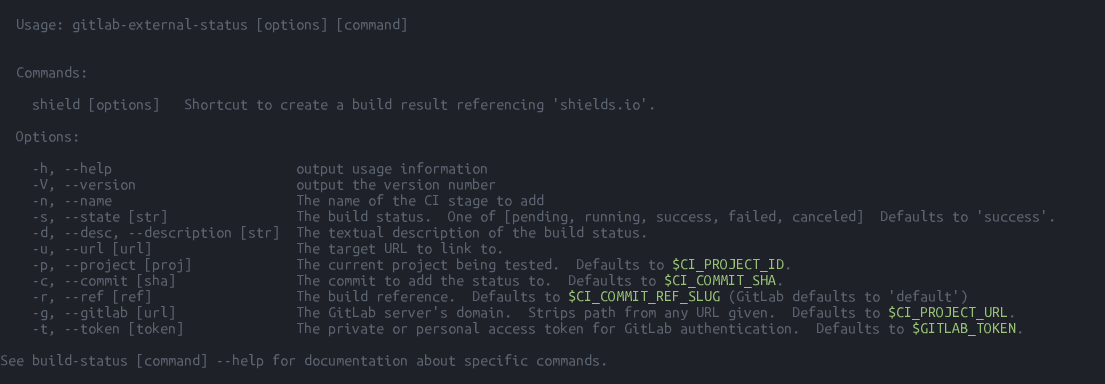
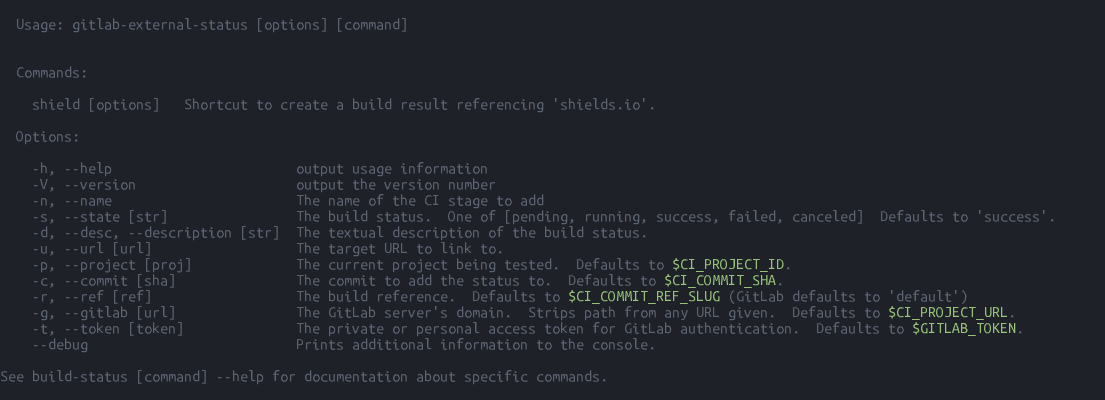
Built from commit e9b90f2a4be4198b4ae0fb4f6b108a895cced673

diff --git a/coverage/ExternalStatus.js.html b/coverage/ExternalStatus.js.html
@@ -20,14 +20,14 @@
     </h1>
     <div class='clearfix'>
       <div class='fl pad1y space-right2'>
-        <span class="strong">92.86% </span>
+        <span class="strong">90% </span>
         <span class="quiet">Statements</span>
-        <span class='fraction'>26/28</span>
+        <span class='fraction'>27/30</span>
       </div>
       <div class='fl pad1y space-right2'>
-        <span class="strong">85.71% </span>
+        <span class="strong">81.25% </span>
         <span class="quiet">Branches</span>
-        <span class='fraction'>12/14</span>
+        <span class='fraction'>13/16</span>
       </div>
       <div class='fl pad1y space-right2'>
         <span class="strong">100% </span>
@@ -35,9 +35,9 @@
         <span class='fraction'>6/6</span>
       </div>
       <div class='fl pad1y space-right2'>
-        <span class="strong">92.86% </span>
+        <span class="strong">90% </span>
         <span class="quiet">Lines</span>
-        <span class='fraction'>26/28</span>
+        <span class='fraction'>27/30</span>
       </div>
     </div>
   </div>
@@ -200,9 +200,14 @@
 155
 156
 157
-158</td><td class="line-coverage quiet"><span class="cline-any cline-yes">8x</span>
+158
+159
+160
+161
+162</td><td class="line-coverage quiet"><span class="cline-any cline-yes">8x</span>
 <span class="cline-any cline-yes">8x</span>
 <span class="cline-any cline-yes">8x</span>
+<span class="cline-any cline-neutral">&nbsp;</span>
 <span class="cline-any cline-neutral">&nbsp;</span>
 <span class="cline-any cline-neutral">&nbsp;</span>
 <span class="cline-any cline-neutral">&nbsp;</span>
@@ -339,6 +344,9 @@
 <span class="cline-any cline-yes">10x</span>
 <span class="cline-any cline-yes">10x</span>
 <span class="cline-any cline-yes">10x</span>
+<span class="cline-any cline-no">&nbsp;</span>
+<span class="cline-any cline-neutral">&nbsp;</span>
+<span class="cline-any cline-yes">10x</span>
 <span class="cline-any cline-neutral">&nbsp;</span>
 <span class="cline-any cline-neutral">&nbsp;</span>
 <span class="cline-any cline-neutral">&nbsp;</span>
@@ -381,6 +389,7 @@ const { URL } = require("url");
  * @property {String} [desc] A description of the job result.
  * @property {String} [url] The target URL that the job links to from GitLab.
  * @property {Object} [query] Custom query-string parameters to include.
+ * @property {Boolean} [debug] if `true`, prints additional details to the console.
 */
 &nbsp;
 /**
@@ -495,6 +504,9 @@ class ExternalStatus {
     }
     const domain = new URL(opts.gitlab).origin;
     const uri = new URL(`${domain}/api/v4/projects/${opts.project}/statuses/${opts.commit}`).href;
+    <span class="missing-if-branch" title="if path not taken" >I</span>if(opts.debug) {
+<span class="cstat-no" title="statement not covered" >      console.log(`Making request to ${uri}`);</span>
+    }
     return request({
       method: "POST",
       uri,
@@ -520,7 +532,7 @@ module.exports = ExternalStatus;
 </div><!-- /wrapper -->
 <div class='footer quiet pad2 space-top1 center small'>
   Code coverage
-  generated by <a href="https://istanbul.js.org/" target="_blank">istanbul</a> at Mon Jun 12 2017 17:18:47 GMT+0000 (UTC)
+  generated by <a href="https://istanbul.js.org/" target="_blank">istanbul</a> at Mon Jun 12 2017 17:28:41 GMT+0000 (UTC)
 </div>
 </div>
 <script src="prettify.js"></script>

diff --git a/docs/ExternalStatus.html b/docs/ExternalStatus.html
@@ -69,7 +69,7 @@
     
     <dt class="tag-source">Source:</dt>
     <dd class="tag-source"><ul class="dummy"><li>
-        <a href="ExternalStatus.js.html">ExternalStatus.js</a>, <a href="ExternalStatus.js.html#line51">line 51</a>
+        <a href="ExternalStatus.js.html">ExternalStatus.js</a>, <a href="ExternalStatus.js.html#line52">line 52</a>
     </li></ul></dd>
     
 
@@ -217,7 +217,7 @@
     
     <dt class="tag-source">Source:</dt>
     <dd class="tag-source"><ul class="dummy"><li>
-        <a href="ExternalStatus.js.html">ExternalStatus.js</a>, <a href="ExternalStatus.js.html#line64">line 64</a>
+        <a href="ExternalStatus.js.html">ExternalStatus.js</a>, <a href="ExternalStatus.js.html#line65">line 65</a>
     </li></ul></dd>
     
 
@@ -290,7 +290,7 @@
     
     <dt class="tag-source">Source:</dt>
     <dd class="tag-source"><ul class="dummy"><li>
-        <a href="ExternalStatus.js.html">ExternalStatus.js</a>, <a href="ExternalStatus.js.html#line92">line 92</a>
+        <a href="ExternalStatus.js.html">ExternalStatus.js</a>, <a href="ExternalStatus.js.html#line93">line 93</a>
     </li></ul></dd>
     
 
@@ -445,7 +445,7 @@
     
     <dt class="tag-source">Source:</dt>
     <dd class="tag-source"><ul class="dummy"><li>
-        <a href="ExternalStatus.js.html">ExternalStatus.js</a>, <a href="ExternalStatus.js.html#line79">line 79</a>
+        <a href="ExternalStatus.js.html">ExternalStatus.js</a>, <a href="ExternalStatus.js.html#line80">line 80</a>
     </li></ul></dd>
     
 
@@ -600,7 +600,7 @@
     
     <dt class="tag-source">Source:</dt>
     <dd class="tag-source"><ul class="dummy"><li>
-        <a href="ExternalStatus.js.html">ExternalStatus.js</a>, <a href="ExternalStatus.js.html#line107">line 107</a>
+        <a href="ExternalStatus.js.html">ExternalStatus.js</a>, <a href="ExternalStatus.js.html#line108">line 108</a>
     </li></ul></dd>
     
 
@@ -777,7 +777,7 @@
     
     <dt class="tag-source">Source:</dt>
     <dd class="tag-source"><ul class="dummy"><li>
-        <a href="ExternalStatus.js.html">ExternalStatus.js</a>, <a href="ExternalStatus.js.html#line129">line 129</a>
+        <a href="ExternalStatus.js.html">ExternalStatus.js</a>, <a href="ExternalStatus.js.html#line130">line 130</a>
     </li></ul></dd>
     
 
@@ -942,7 +942,7 @@
 <br class="clear">
 
 <footer>
-    Documentation generated by <a href="https://github.com/jsdoc3/jsdoc">JSDoc 3.4.3</a> on Mon Jun 12 2017 17:18:49 GMT+0000 (UTC) using the <a href="https://github.com/clenemt/docdash">docdash</a> theme.
+    Documentation generated by <a href="https://github.com/jsdoc3/jsdoc">JSDoc 3.4.3</a> on Mon Jun 12 2017 17:28:42 GMT+0000 (UTC) using the <a href="https://github.com/clenemt/docdash">docdash</a> theme.
 </footer>
 
 <script>prettyPrint();</script>

diff --git a/coverage/index.html b/coverage/index.html
@@ -20,14 +20,14 @@
     </h1>
     <div class='clearfix'>
       <div class='fl pad1y space-right2'>
-        <span class="strong">92.86% </span>
+        <span class="strong">90% </span>
         <span class="quiet">Statements</span>
-        <span class='fraction'>26/28</span>
+        <span class='fraction'>27/30</span>
       </div>
       <div class='fl pad1y space-right2'>
-        <span class="strong">85.71% </span>
+        <span class="strong">81.25% </span>
         <span class="quiet">Branches</span>
-        <span class='fraction'>12/14</span>
+        <span class='fraction'>13/16</span>
       </div>
       <div class='fl pad1y space-right2'>
         <span class="strong">100% </span>
@@ -35,9 +35,9 @@
         <span class='fraction'>6/6</span>
       </div>
       <div class='fl pad1y space-right2'>
-        <span class="strong">92.86% </span>
+        <span class="strong">90% </span>
         <span class="quiet">Lines</span>
-        <span class='fraction'>26/28</span>
+        <span class='fraction'>27/30</span>
       </div>
     </div>
   </div>
@@ -60,15 +60,15 @@
 </thead>
 <tbody><tr>
 	<td class="file high" data-value="ExternalStatus.js"><a href="ExternalStatus.js.html">ExternalStatus.js</a></td>
-	<td data-value="92.86" class="pic high"><div class="chart"><div class="cover-fill" style="width: 92%;"></div><div class="cover-empty" style="width:8%;"></div></div></td>
-	<td data-value="92.86" class="pct high">92.86%</td>
-	<td data-value="28" class="abs high">26/28</td>
-	<td data-value="85.71" class="pct high">85.71%</td>
-	<td data-value="14" class="abs high">12/14</td>
+	<td data-value="90" class="pic high"><div class="chart"><div class="cover-fill" style="width: 90%;"></div><div class="cover-empty" style="width:10%;"></div></div></td>
+	<td data-value="90" class="pct high">90%</td>
+	<td data-value="30" class="abs high">27/30</td>
+	<td data-value="81.25" class="pct high">81.25%</td>
+	<td data-value="16" class="abs high">13/16</td>
 	<td data-value="100" class="pct high">100%</td>
 	<td data-value="6" class="abs high">6/6</td>
-	<td data-value="92.86" class="pct high">92.86%</td>
-	<td data-value="28" class="abs high">26/28</td>
+	<td data-value="90" class="pct high">90%</td>
+	<td data-value="30" class="abs high">27/30</td>
 	</tr>
 
 </tbody>
@@ -77,7 +77,7 @@
 </div><!-- /wrapper -->
 <div class='footer quiet pad2 space-top1 center small'>
   Code coverage
-  generated by <a href="https://istanbul.js.org/" target="_blank">istanbul</a> at Mon Jun 12 2017 17:18:47 GMT+0000 (UTC)
+  generated by <a href="https://istanbul.js.org/" target="_blank">istanbul</a> at Mon Jun 12 2017 17:28:41 GMT+0000 (UTC)
 </div>
 </div>
 <script src="prettify.js"></script>

diff --git a/docs/global.html b/docs/global.html
@@ -121,7 +121,7 @@
     
     <dt class="tag-source">Source:</dt>
     <dd class="tag-source"><ul class="dummy"><li>
-        <a href="ExternalStatus.js.html">ExternalStatus.js</a>, <a href="ExternalStatus.js.html#line41">line 41</a>
+        <a href="ExternalStatus.js.html">ExternalStatus.js</a>, <a href="ExternalStatus.js.html#line42">line 42</a>
     </li></ul></dd>
     
 
@@ -652,6 +652,37 @@
         </tr>
 
     
+
+        <tr>
+            
+                <td class="name"><code>debug</code></td>
+            
+
+            <td class="type">
+            
+                
+<span class="param-type">Boolean</span>
+
+
+            
+            </td>
+
+            
+                <td class="attributes">
+                
+                    &lt;optional><br>
+                
+
+                
+                </td>
+            
+
+            
+
+            <td class="description last"><p>if <code>true</code>, prints additional details to the console.</p></td>
+        </tr>
+
+    
     </tbody>
 </table>
 
@@ -694,7 +725,7 @@
     
     <dt class="tag-source">Source:</dt>
     <dd class="tag-source"><ul class="dummy"><li>
-        <a href="ExternalStatus.js.html">ExternalStatus.js</a>, <a href="ExternalStatus.js.html#line27">line 27</a>
+        <a href="ExternalStatus.js.html">ExternalStatus.js</a>, <a href="ExternalStatus.js.html#line28">line 28</a>
     </li></ul></dd>
     
 
@@ -902,7 +933,7 @@
 <br class="clear">
 
 <footer>
-    Documentation generated by <a href="https://github.com/jsdoc3/jsdoc">JSDoc 3.4.3</a> on Mon Jun 12 2017 17:18:49 GMT+0000 (UTC) using the <a href="https://github.com/clenemt/docdash">docdash</a> theme.
+    Documentation generated by <a href="https://github.com/jsdoc3/jsdoc">JSDoc 3.4.3</a> on Mon Jun 12 2017 17:28:42 GMT+0000 (UTC) using the <a href="https://github.com/clenemt/docdash">docdash</a> theme.
 </footer>
 
 <script>prettyPrint();</script>

diff --git a/docs/ExternalStatus.js.html b/docs/ExternalStatus.js.html
@@ -61,6 +61,7 @@ const { URL } = require("url");
  * @property {String} [desc] A description of the job result.
  * @property {String} [url] The target URL that the job links to from GitLab.
  * @property {Object} [query] Custom query-string parameters to include.
+ * @property {Boolean} [debug] if `true`, prints additional details to the console.
 */
 
 /**
@@ -175,6 +176,9 @@ class ExternalStatus {
     }
     const domain = new URL(opts.gitlab).origin;
     const uri = new URL(`${domain}/api/v4/projects/${opts.project}/statuses/${opts.commit}`).href;
+    if(opts.debug) {
+      console.log(`Making request to ${uri}`);
+    }
     return request({
       method: "POST",
       uri,
@@ -206,7 +210,7 @@ module.exports = ExternalStatus;
 <br class="clear">
 
 <footer>
-    Documentation generated by <a href="https://github.com/jsdoc3/jsdoc">JSDoc 3.4.3</a> on Mon Jun 12 2017 17:18:49 GMT+0000 (UTC) using the <a href="https://github.com/clenemt/docdash">docdash</a> theme.
+    Documentation generated by <a href="https://github.com/jsdoc3/jsdoc">JSDoc 3.4.3</a> on Mon Jun 12 2017 17:28:42 GMT+0000 (UTC) using the <a href="https://github.com/clenemt/docdash">docdash</a> theme.
 </footer>
 
 <script>prettyPrint();</script>

diff --git a/docs/index.html b/docs/index.html
@@ -66,7 +66,7 @@
 <br class="clear">
 
 <footer>
-    Documentation generated by <a href="https://github.com/jsdoc3/jsdoc">JSDoc 3.4.3</a> on Mon Jun 12 2017 17:18:49 GMT+0000 (UTC) using the <a href="https://github.com/clenemt/docdash">docdash</a> theme.
+    Documentation generated by <a href="https://github.com/jsdoc3/jsdoc">JSDoc 3.4.3</a> on Mon Jun 12 2017 17:28:42 GMT+0000 (UTC) using the <a href="https://github.com/clenemt/docdash">docdash</a> theme.
 </footer>
 
 <script>prettyPrint();</script>
